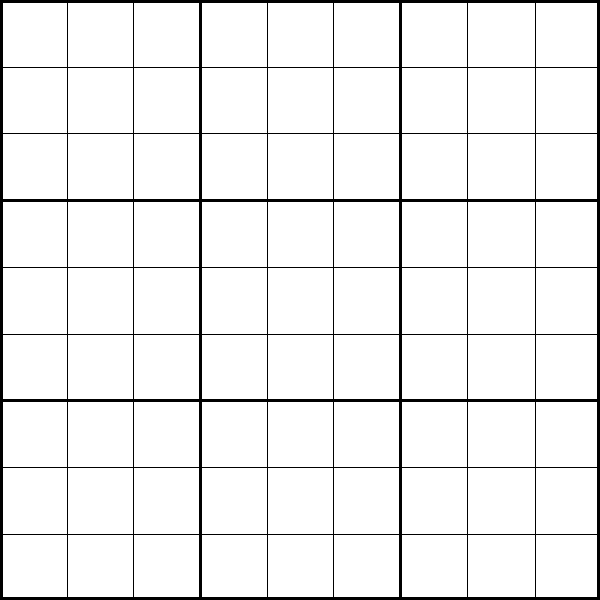
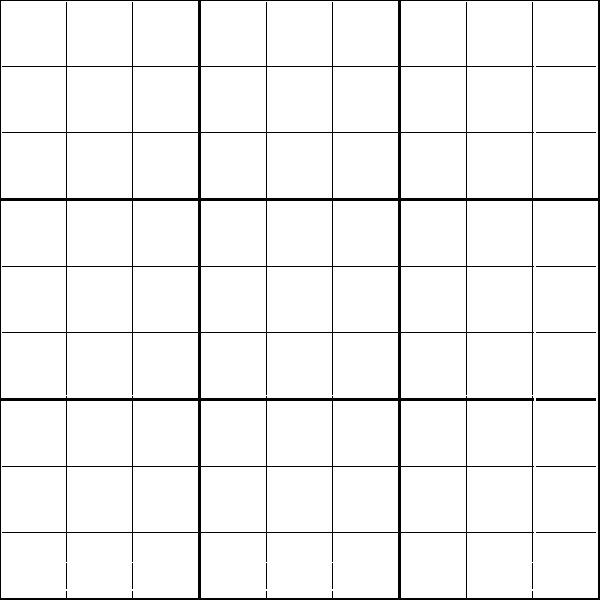
PROTO-1: Added actors to grid

Changed region(s): [[0.0, 0.0, 1.0, 1.0]]

diff --git a/core/src/com/askal/scraps/SudokuGame.java b/core/src/com/askal/scraps/SudokuGame.java
@@ -2,9 +2,9 @@ package com.askal.scraps;
 
 import com.badlogic.gdx.ApplicationAdapter;
 import com.badlogic.gdx.Gdx;
+import com.badlogic.gdx.graphics.Color;
 import com.badlogic.gdx.graphics.GL20;
 import com.badlogic.gdx.graphics.Texture;
-import com.badlogic.gdx.graphics.g2d.SpriteBatch;
 import com.badlogic.gdx.scenes.scene2d.Stage;
 import com.badlogic.gdx.scenes.scene2d.ui.Image;
 import com.badlogic.gdx.utils.viewport.ScreenViewport;
@@ -12,16 +12,33 @@ import com.badlogic.gdx.utils.viewport.ScreenViewport;
 public class SudokuGame extends ApplicationAdapter {
 
 	private Stage stage;
-	Image img;
-	
+
 	@Override
 	public void create () {
 		stage = new Stage(new ScreenViewport());
 		// Grid taken courtesy of http://www.kidsmathgamesonline.com/sudoku/printableworksheets/template.html
 		Texture texture = new Texture(Gdx.files.internal("data/grid.png"));
-		img = new Image(texture);
-		img.setPosition(0, 0);
-		stage.addActor(img);
+		Texture selectTexture = new Texture(Gdx.files.internal("data/temp_select.png"));
+		Image gridImage = new Image(texture);
+		gridImage.setPosition(0, 0);
+		stage.addActor(gridImage);
+
+		Image[][] gridTiles = new Image[9][];
+		for (int i = 0; i < 9; i++) {
+			gridTiles[i] = new Image[9];
+
+			int xOffset = 1 + i%3 * 200;
+			int yOffset = 2 + i/3 * 200;
+			for (int j = 0; j < 9; j++) {
+				gridTiles[i][j] = new Image(selectTexture);
+				int innerXOffset = xOffset + j%3 * 66;
+				int innerYOffset = yOffset + j/3 * 66;
+				gridTiles[i][j].setPosition(innerXOffset, innerYOffset);
+				gridTiles[i][j].setColor(Color.CLEAR);
+				stage.addActor(gridTiles[i][j]);
+			}
+		}
+		gridTiles[0][0].setColor(Color.WHITE);
 	}
 
 	@Override
